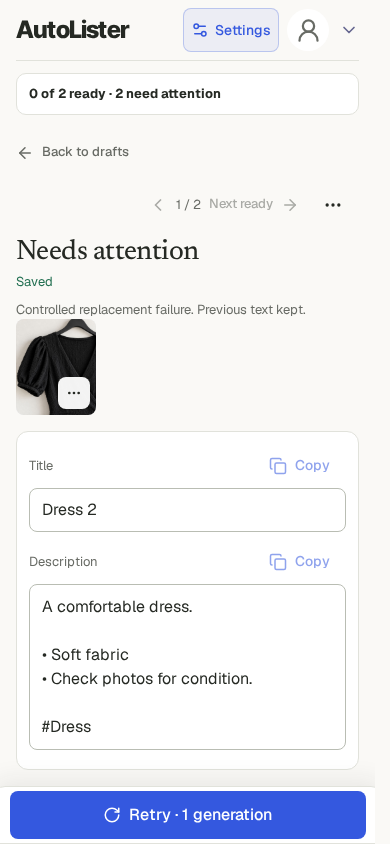
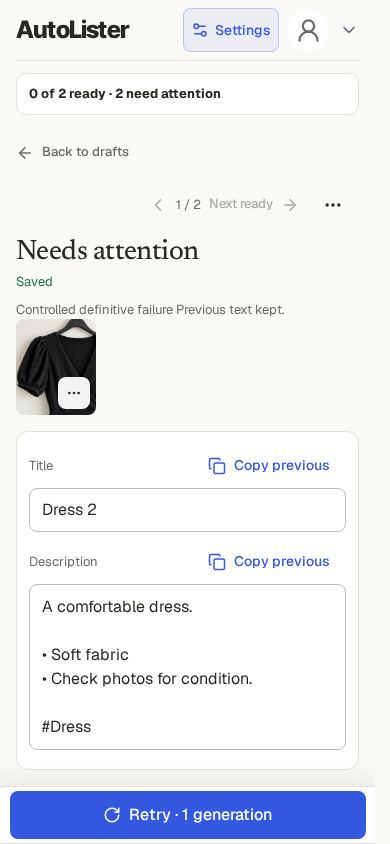
Refresh inspected failure, retry and terminal completion review

diff --git a/docs/reviews/2026-10-16-final/acceptance.md b/docs/reviews/2026-10-16-final/acceptance.md
@@ -10,14 +10,14 @@ Status: local candidate. Nothing in this review establishes production delivery 
 - Completion requires loaded host photos and stable generated fields. Hidden-tab waiting does not establish failure.
 - Recovery and late diagnostics remain bound to the originating account, batch, item and generation attempt.
 - The separate web app stays on its compact batch overview. Each ready row offers Review while later items continue. Entering a draft retains progress without automatic navigation or overwriting edits.
-- Queued replacement text cannot be copied or marked as a freshly generated result.
+- Queued replacement text cannot be copied or marked as a freshly generated result. After a definitive failure, existing Copy buttons explicitly say Copy previous, preserving access to earlier work without a paid retry. The item remains Needs attention, and automatic review navigation excludes it.
 - Phone upload uses a progress-based idle deadline, automatic bounded retry and explicit Cancel. A progressing upload can take longer than 45 seconds.
 
 ## Evidence available before manual acceptance
 
 | Check | Result |
 | --- | --- |
-| Final frontend full production verification | Passed, 117 unit tests, 244 browser tests, 2 legacy opt-in fault harnesses skipped, production build passed |
+| Final frontend full production verification | Passed, 117 unit tests, 247 browser tests, 2 legacy opt-in fault harnesses skipped, production build passed |
 | Backend full production verification | Passed, 994 tests, 4 opt-in skips; lint, types, format and build passed |
 | Established web browser suite | 24 checks passed, no page errors |
 | Web early-review, queued-replacement and failed-replacement journeys | Passed three rounds each; separate earlier 20-item batch passed |
@@ -36,23 +36,29 @@ An older saved record with no verifiable owner is not adopted by guessing an acc
 
 ## Remaining acceptance
 
-- Final frontend verification passed on the recorded source: 117 units, 244 browser tests, two legacy opt-in fault harnesses skipped, production build. Package validation exposed generated-registry drift from the canonical website registry; the established sync generator repaired parity without changing the backend registry or policy. The final offline package passes shared-helper, manifest/script and loaded-worker checks at prepared release version 1.4.17. Its background and manifest match the source, and its content script matches the minified production build.
-- Primary-agent manual acceptance is complete for normal extension batch, computer single, phone single, worker restart during waiting, explicit Stop/Resume, web batch early review/Copy/edit retention/Next/Mark as listed, 320px layout and web single. The 44-step screenshot review includes the separately inspected real-HTTP phone fault-run screenshots. The primary's scripted browser actions were chosen step by step; the automated suites remain separate evidence. The review caught an overloaded waiting-state calculation showing 99% and Queued. Failing regressions established this for both connection and server-commit waiting. The corrected Waiting display passed 15 targeted checks across three rounds and both pictured manual recovery variants were inspected. Exact ready counts remain visible.
-- Second totally fresh independent review of the final versioned candidate and verification evidence.
+- Final frontend verification passed on the recorded source: 117 units, 247 browser tests, two legacy opt-in fault harnesses skipped, production build. Package validation exposed generated-registry drift from the canonical website registry; the established sync generator repaired parity without changing the backend registry or policy. The final offline package passes shared-helper, manifest/script and loaded-worker checks at prepared release version 1.4.17. Its background and manifest match the source, and its content script matches the minified production build.
+- Primary-agent manual acceptance is complete for normal extension batch, computer single, phone single, worker restart during waiting, explicit Stop/Resume, web batch early review/Copy/edit retention/Next/Mark as listed, 320px layout and web single. The 45-step screenshot review includes the separately inspected real-HTTP phone fault-run screenshots. The primary's scripted browser actions were chosen step by step; the automated suites remain separate evidence. The review caught an overloaded waiting-state calculation showing 99% and Queued. Failing regressions established this for both connection and server-commit waiting. The corrected Waiting display passed 15 targeted checks across three rounds and both pictured manual recovery variants were inspected. Exact ready counts remain visible.
+- The second fresh review blocked the earlier candidate: a final checkpoint failure produced a false paused1/1 state after cleanup. The repair now records the final count and done status together before request/photo cleanup. Three browser fault cases each passed three rounds. Both full production gates passed. The primary repeated the checkpoint-failure completion/reload and the failed replacement Copy previous/explicit Retry journeys. Another totally fresh independent review is still required.
 - Production and extension Store delivery, with actual public artifact/status verification, remain separate.
 
 ## Repairs following independent review
 
 - An actual Chromium photo-fetch interruption reproduced an immediate batch pause before generation. The repaired download path retains successful files, retries missing files within two minutes, honors readable Retry-After, and remains cancellable. Three repeated rounds cover interruption with a real worker restart, definite 404, Stop, and a controlled elapsed-clock deadline. The primary repeated the pictured waiting and automatic-recovery journey. One modeled generation, one injection, two photos and one cleanup were confirmed.
-- A controlled definitive replacement rejection reproduced stale Copy and Mark as listed controls. Failed output is now unavailable to Copy. The existing footer offers Retry with its generation cost, then restores Mark as listed after success. Another regression reproduced an unresolved item appearing ready after a different item was retried. Library and batch rows now consult persisted failure state, including after reload. The primary operated the failure and successful-retry screens at 390px and 320px. The final library screenshot is separately inspected automated browser evidence.
+- A controlled definitive replacement rejection reproduced old output appearing fresh through Copy and Mark as listed. Failed items remain Needs attention. Existing Copy buttons explicitly identify previous text, with no automatic generation or payment. The existing footer offers Retry with its generation cost, then restores Mark as listed after success. Another regression reproduced an unresolved item appearing ready after a different item was retried. Library and batch rows now consult persisted failure state, including after reload. The primary operated the failure and successful-retry screens at 390px and 320px. The final library screenshot is separately inspected automated browser evidence.
 - A controlled storage-write failure reproduced Stop failing before reaching the work tab. Stop now interrupts work even when its checkpoint cannot be saved and returns an explicit failure response. The regression passes.
 - The actual visibility test failed without a Linux display and passed three rounds with Xvfb. Both GitHub workflows now provide Xvfb for browser tests. This preserves real active-tab checks.
 - Helper text is omitted by default under the new workspace and repository rule. The failure screen keeps the error and a short previous-text notice. Redundant queue instructions were removed. The necessary keep-open instruction remains because the web queue runs in the browser.
 
 ## Prepared release
 
-Version 1.4.17 is packaged locally. The actual Store status query reports 1.4.16 published at 100%, with no submitted revision. Packaging, shared-helper parity and the loaded packaged worker passed. No upload or production push has occurred. A second totally fresh independent review of the final candidate is required before deployment.
+Version 1.4.17 is packaged locally. The actual Store status query reports 1.4.16 published at 100%, with no submitted revision. Packaging, shared-helper parity and the loaded packaged worker passed. No upload or production push has occurred. A second fresh review found the terminal checkpoint defect above. Another totally fresh independent review of the repaired candidate is required before deployment.
 
 ## Existing live selector evidence
 
 The latest available saved daily DOM-canary detail is dated 2026-10-15T16:43:02.950Z, extension 1.4.16, at `https://www.vinted.nl/items/new`. It reports passed, injected true, title text `Artikel plaatsen | Vinted`, and all required title, description, photo input, tools, Generate, Sign In, Phone and language flags true. It is historical selector evidence, not this candidate's full live behavior. The scheduled task's latest result was zero, which alone does not establish a newer successful canary. No canary or live flow was triggered for this review.
+
+## Tracking source of truth
+
+Extension events retain the generation attempt, batch and item joins. Mobile web uses its durable operation ID as the server request ID, joined through the authenticated request log and idempotency record. Its general analytics outcome event does not independently include the operation ID. Phone transport carries per-file operation IDs with a session-key join. Current controlled success does not establish historical recovery or credit refunds.
+
+The primary discarded a Retry screenshot captured while the queue was still preparing, then repeated the journey until the new title, enabled Copy, enabled Mark as listed and final ready count were observed. The retained screenshot shows the completed state.

diff --git a/docs/reviews/2026-10-16-final/README.md b/docs/reviews/2026-10-16-final/README.md
@@ -175,87 +175,93 @@ Primary-operated browser journey. The connection returned and the batch finished
 
 ![Photo download recovers after a worker restart](photo-download-recovered.png)
 
+### 24. Completion survives a temporary checkpoint failure
+
+Primary-operated actual MV3 batch. One controlled final storage write failed, then the existing checkpoint retry completed safely. One modeled generation, two retained listing photos and one cleanup. Reload showed no false Resume prompt. No paid generation or live marketplace action.
+
+![Completion survives a temporary checkpoint failure](terminal-complete.png)
+
 ## Web app batch
 
-### 24. First-use style preferences
+### 25. First-use style preferences
 
 Healthy. Existing compact preference setup; no batch redesign.
 
 ![First-use style preferences](web-01.png)
 
-### 25. Web batch photos ready to group
+### 26. Web batch photos ready to group
 
 Healthy. Existing compact web grouping. Four actual local photos.
 
 ![Web batch photos ready to group](web-02.png)
 
-### 26. Web batch ready for Start
+### 27. Web batch ready for Start
 
 Healthy. Two grouped drafts. Start stays explicit.
 
 ![Web batch ready for Start](web-03.png)
 
-### 27. Batch starts in place
+### 28. Batch starts in place
 
 Healthy. No automatic navigation on mobile.
 
 ![Batch starts in place](web-04.png)
 
-### 28. First item ready before the batch finishes
+### 29. First item ready before the batch finishes
 
 Healthy. Ready row offers Review instead of settings; second item continues.
 
 ![First item ready before the batch finishes](web-05.png)
 
-### 29. Review and Copy while the batch continues
+### 30. Review and Copy while the batch continues
 
 Healthy. Compact progress remains; Copy works, unfinished Next is disabled.
 
 ![Review and Copy while the batch continues](web-06.png)
 
-### 30. Batch finishes without moving the seller
+### 31. Batch finishes without moving the seller
 
 Healthy. Text edits and focus remain; Next ready item is now available.
 
 ![Batch finishes without moving the seller](web-07.png)
 
-### 31. Explicit next ready item
+### 32. Explicit next ready item
 
 Healthy. Next opens Dress 2. Seller chooses when to move; Copy and Mark as listed remain accessible.
 
 ![Explicit next ready item](web-08.png)
 
-### 32. Both ready rows offer Review
+### 33. Both ready rows offer Review
 
 Healthy. Settings icons are replaced by Review on ready items.
 
 ![Both ready rows offer Review](web-09.png)
 
-### 33. Small phone review
+### 34. Small phone review
 
 Healthy. At 320px the progress, Copy controls and Mark as listed fit without horizontal overflow.
 
 ![Small phone review](web-10.png)
 
-### 34. Failed replacement keeps the previous text unavailable
+### 35. Failed replacement identifies the previous text
 
-Primary-operated browser with a controlled HTTP422. Copy is disabled and the existing footer offers Retry with its cost.
+Primary-operated browser with a controlled HTTP422. Existing Copy previous buttons preserve earlier work without another paid generation. Needs attention remains visible; the footer offers an optional explicit Retry with its cost.
 
-![Failed replacement keeps the previous text unavailable](web-failed-replacement.png)
+![Failed replacement identifies the previous text](web-failed-replacement.png)
 
-### 35. The failure state at 320 pixels
+### 36. The failure state at 320 pixels
 
 Primary-operated viewport check. No horizontal overflow or extra recovery panel.
 
 ![The failure state at 320 pixels](web-failed-small.png)
 
-### 36. Explicit retry restores the normal review screen
+### 37. Explicit retry restores the normal review screen
 
-Primary clicked Retry against the local model. Photos remained, the new text appeared, and Copy and Mark as listed became available.
+Primary clicked Retry against the local model. Photos remained, the new text appeared, and ordinary Copy and Mark as listed returned.
 
 ![Explicit retry restores the normal review screen](web-retry-ready.png)
 
-### 37. Other failed items remain visible after retry and reload
+### 38. Other failed items remain visible after retry and reload
 
 Automated real-browser evidence, separately inspected. One item was retried successfully. The other still shows Needs attention after reload.
 
@@ -263,19 +269,19 @@ Automated real-browser evidence, separately inspected. One item was retried succ
 
 ## Web app single item
 
-### 38. Single web item with photos
+### 39. Single web item with photos
 
 Healthy. Existing compact single-item workspace and Generate.
 
 ![Single web item with photos](web-single-01.png)
 
-### 39. Single web item prepares in place
+### 40. Single web item prepares in place
 
 Healthy. Photos stay visible and there is no batch navigation.
 
 ![Single web item prepares in place](web-single-02.png)
 
-### 40. Single web result ready to Copy
+### 41. Single web result ready to Copy
 
 Healthy. Existing compact review screen, clipboard works, photos retained.
 
@@ -283,25 +289,25 @@ Healthy. Existing compact review screen, clipboard works, photos retained.
 
 ## Phone transport
 
-### 41. Connection loss keeps the selected photos
+### 42. Connection loss keeps the selected photos
 
 Passed. Actual multipart upload over loopback HTTP with controlled socket loss. Automatic retry and explicit Cancel remain available.
 
 ![Connection loss keeps the selected photos](phone-transport-01.png)
 
-### 42. Progressing slow upload completes
+### 43. Progressing slow upload completes
 
 Passed. One actual upload took about 60 seconds without a retry. The noise image is deliberate high-entropy test data.
 
 ![Progressing slow upload completes](phone-transport-02.png)
 
-### 43. Expired session is terminal
+### 44. Expired session is terminal
 
 Passed. Explicit HTTP 410 shows clear expiry guidance without revived Retry or Cancel controls.
 
 ![Expired session is terminal](phone-transport-03.png)
 
-### 44. Seller cancellation stops retrying
+### 45. Seller cancellation stops retrying
 
 Passed. Actual browser Cancel stops retries and leaves the cancelled screen. The disabled photo control cannot restart this session.
 
